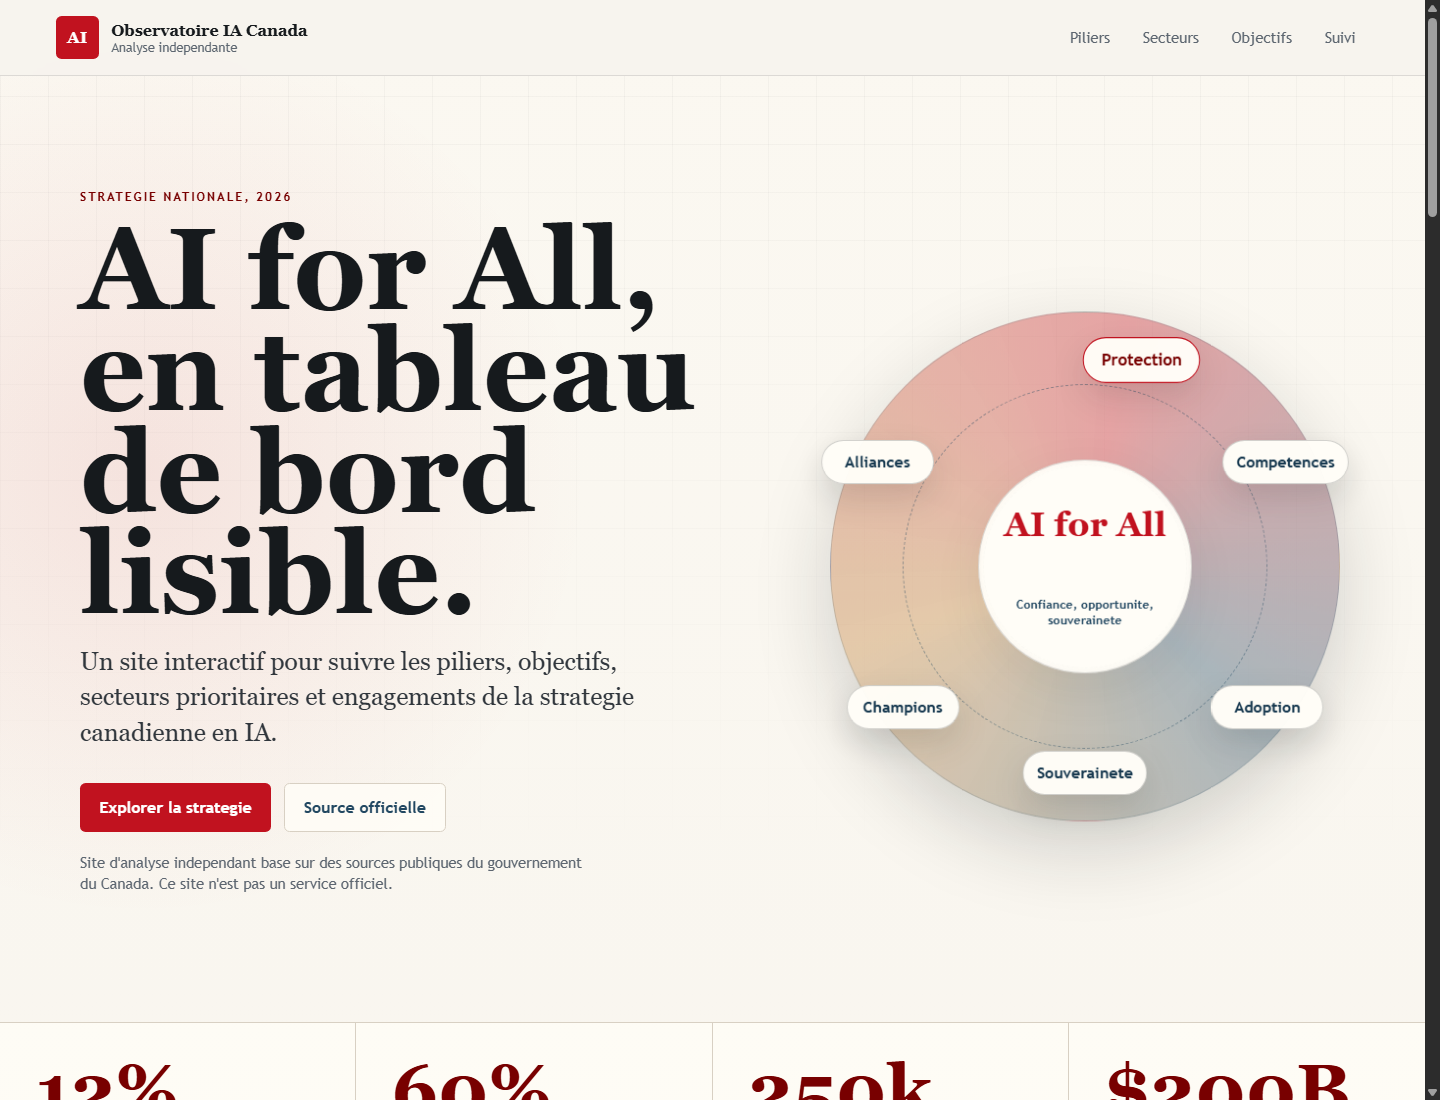
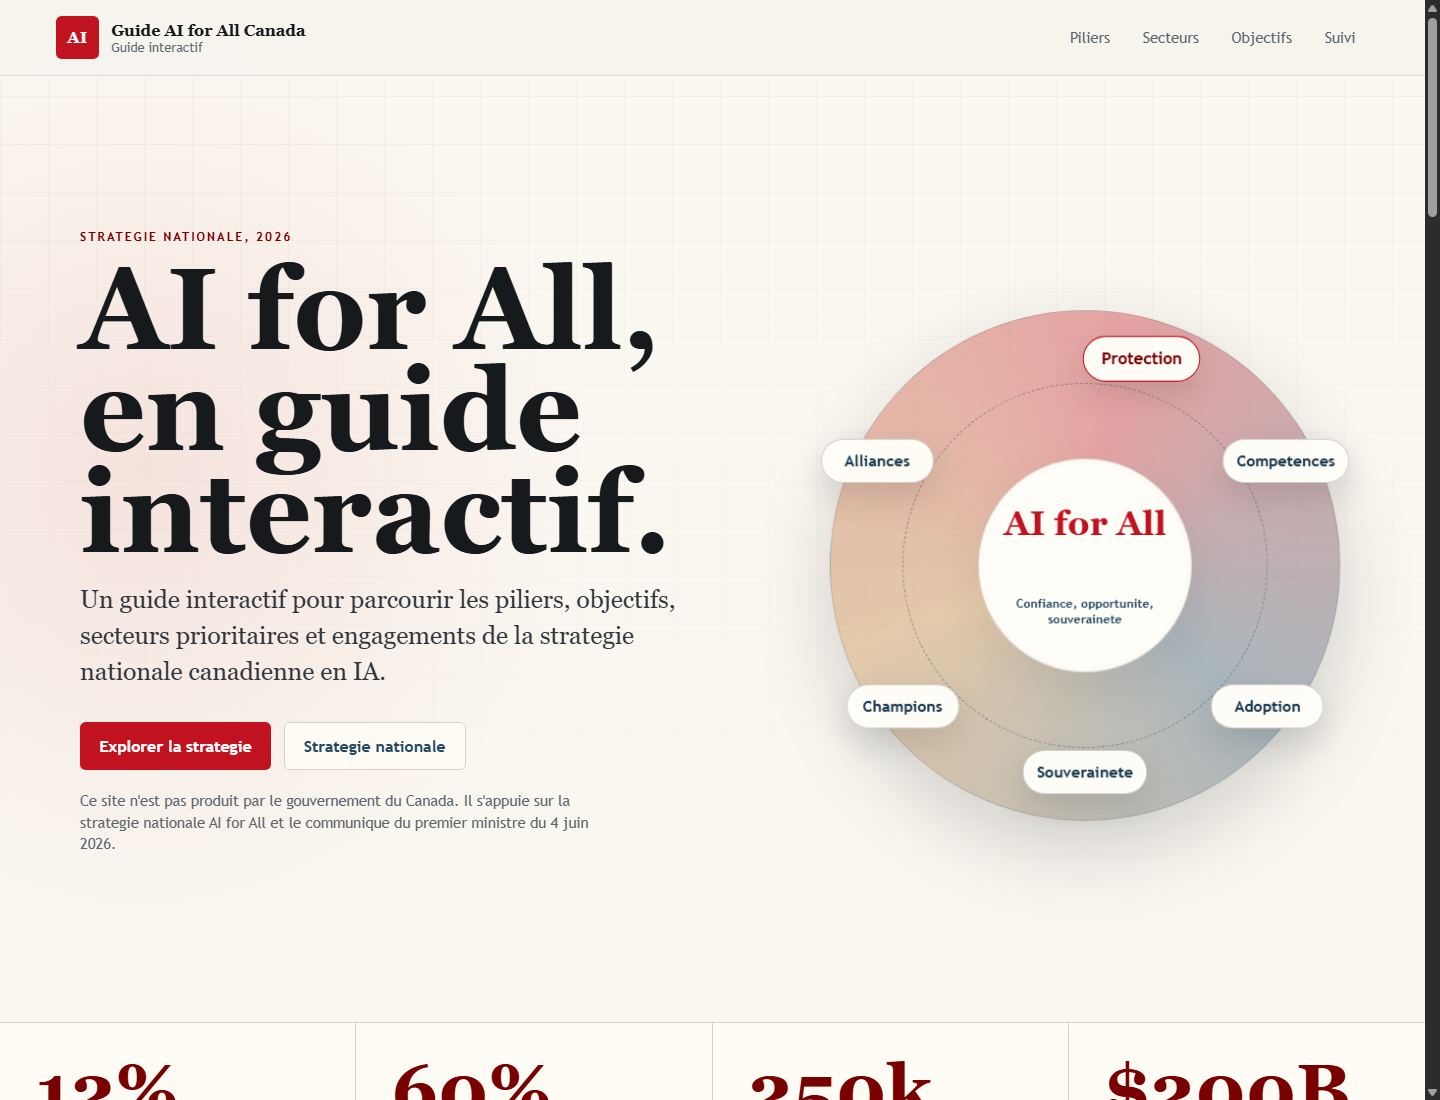
content: center site on national strategy

diff --git a/index.html b/index.html
@@ -5,9 +5,9 @@
     <meta name="viewport" content="width=device-width, initial-scale=1.0" />
     <meta
       name="description"
-      content="Observatoire interactif independant de la strategie nationale canadienne en intelligence artificielle, AI for All."
+      content="Guide interactif de la strategie nationale canadienne en intelligence artificielle, AI for All."
     />
-    <title>Observatoire IA Canada</title>
+    <title>Guide AI for All Canada</title>
     <link rel="stylesheet" href="styles.css" />
   </head>
   <body>
@@ -15,8 +15,8 @@
       <a class="brand" href="#top" aria-label="Retour au debut">
         <span class="brand-mark">AI</span>
         <span>
-          <strong>Observatoire IA Canada</strong>
-          <small>Analyse independante</small>
+          <strong>Guide AI for All Canada</strong>
+          <small>Guide interactif</small>
         </span>
       </a>
       <nav aria-label="Navigation principale">
@@ -31,25 +31,26 @@
       <section class="hero">
         <div class="hero-copy">
           <p class="eyebrow">Strategie nationale, 2026</p>
-          <h1>AI for All, en tableau de bord lisible.</h1>
+          <h1>AI for All, en guide interactif.</h1>
           <p class="hero-lead">
-            Un site interactif pour suivre les piliers, objectifs, secteurs
-            prioritaires et engagements de la strategie canadienne en IA.
+            Un guide interactif pour parcourir les piliers, objectifs, secteurs
+            prioritaires et engagements de la strategie nationale canadienne en IA.
           </p>
           <div class="hero-actions">
             <a class="button primary" href="#piliers">Explorer la strategie</a>
             <a
               class="button secondary"
-              href="https://ised-isde.canada.ca/site/ised/en/artificial-intelligence-ecosystem/overview-canadas-national-artificial-intelligence-strategy"
+              href="https://ised-isde.canada.ca/site/ised/en/canadas-national-artificial-intelligence-strategy-ai-all"
               target="_blank"
               rel="noreferrer"
             >
-              Source officielle
+              Strategie nationale
             </a>
           </div>
           <p class="disclaimer">
-            Site d'analyse independant base sur des sources publiques du
-            gouvernement du Canada. Ce site n'est pas un service officiel.
+            Ce site n'est pas produit par le gouvernement du Canada. Il s'appuie
+            sur la strategie nationale AI for All et le communique du premier
+            ministre du 4 juin 2026.
           </p>
         </div>
 
@@ -165,8 +166,7 @@
           </div>
           <p>
             Les cibles ci-dessous reprennent la strategie complete publiee par
-            ISDE. La page d'aperçu mentionne aussi une cible de 75% d'adoption
-            d'ici 2031, a clarifier dans le suivi.
+            ISDE dans la strategie nationale complete `AI for All`.
           </p>
         </div>
         <div class="goal-grid" id="goal-grid"></div>
@@ -213,15 +213,6 @@
         <ol>
           <li>
             <a
-              href="https://ised-isde.canada.ca/site/ised/en/artificial-intelligence-ecosystem/overview-canadas-national-artificial-intelligence-strategy"
-              target="_blank"
-              rel="noreferrer"
-            >
-              Aperçu officiel AI for All, ISDE, modifie le 4 juin 2026
-            </a>
-          </li>
-          <li>
-            <a
               href="https://ised-isde.canada.ca/site/ised/en/canadas-national-artificial-intelligence-strategy-ai-all"
               target="_blank"
               rel="noreferrer"
@@ -243,8 +234,8 @@
     </main>
 
     <footer class="site-footer">
-      <span>Observatoire IA Canada</span>
-      <span>Analyse independante, sources publiques.</span>
+      <span>Guide AI for All Canada</span>
+      <span>Site non produit par le gouvernement du Canada.</span>
     </footer>
 
     <script src="app.js" type="module"></script>

diff --git a/app.js b/app.js
@@ -179,8 +179,8 @@ const tracker = [
   {
     status: "A verifier",
     className: "watch",
-    title: "Cible 60% ou 75% d'adoption",
-    text: "La strategie complete mentionne 60% d'ici 2034, l'aperçu mentionne 75% d'ici 2031."
+    title: "Cible d'adoption de 60%",
+    text: "La strategie nationale vise une hausse de l'adoption de l'IA par les entreprises de 12% a 60% d'ici 2034."
   },
   {
     status: "Annonce",

diff --git a/docs/project-log.md b/docs/project-log.md
@@ -4,26 +4,24 @@
 
 ### Contexte
 
-Ulrich veut creer un site interactif a partir de la page officielle d'ISDE sur la strategie nationale canadienne en IA, `AI for All`.
+Ulrich veut creer un site interactif a partir de la strategie nationale canadienne en IA, `AI for All`.
 
 ### Actions
 
 - Creation du depot Git local dans `C:\Users\ciram\Downloads\AI-CA`.
 - Creation du depot GitHub public `ulrich-e-r-djidonou/AI-CA`.
 - Scaffold d'une app statique sans dependances externes.
-- Ajout d'un tableau de bord interactif : hero, six piliers, secteurs prioritaires, objectifs, simulateur d'adoption, suivi des engagements et sources.
+- Ajout d'un guide interactif : hero, six piliers, secteurs prioritaires, objectifs, simulateur d'adoption, suivi des engagements et sources.
 - Verification locale avec `npm run check`, chargement HTTP 200, test des interactions principales et capture visuelle `docs/validation/homepage.png`.
 
 ### Sources consultees
 
-- `https://ised-isde.canada.ca/site/ised/en/artificial-intelligence-ecosystem/overview-canadas-national-artificial-intelligence-strategy`
 - `https://ised-isde.canada.ca/site/ised/en/canadas-national-artificial-intelligence-strategy-ai-all`
 - `https://www.pm.gc.ca/en/news/news-releases/2026/06/04/prime-minister-carney-launches-ai-all-canadas-new-national-artificial`
 
 ### Limites connues
 
 - Les donnees sont codees dans `app.js` pour le prototype initial.
-- La page d'aperçu ISDE mentionne une cible de 75% d'adoption d'ici 2031, tandis que la strategie complete mentionne 60% d'ici 2034. Le site signale cette divergence comme point a verifier.
 - Premier rendu inspecte : contraste de la roue strategique ajuste apres capture visuelle.
 
 ## 2026-06-04, standardisation Codex
@@ -40,6 +38,19 @@ Ulrich veut standardiser les instructions projet pour Codex avec `AGENTS.md`.
 ### Note
 
 `CLAUDE.md` existe encore parce qu'il n'a pas ete supprime explicitement. Il pourra etre retire apres confirmation si le projet doit n'utiliser que `AGENTS.md`.
+
+## 2026-06-04, recentrage editorial
+
+### Contexte
+
+Ulrich veut retirer le positionnement editorial secondaire. Le projet doit rester centre sur la strategie nationale.
+
+### Actions
+
+- Remplacement du positionnement par `Guide AI for All Canada`.
+- Conservation d'une mention claire : le site n'est pas produit par le gouvernement du Canada.
+- Limitation des sources a la strategie nationale complete et au communique du premier ministre du 4 juin 2026.
+- Suppression de la reference a une page secondaire ISDE.
 
 ### Commandes utiles
 

diff --git a/docs/decisions.md b/docs/decisions.md
@@ -13,10 +13,18 @@ Alternatives considerees :
 
 Statut : adoptee pour la version initiale.
 
-## 2026-06-04, positionnement non officiel
+## 2026-06-04, positionnement non gouvernemental
 
-Decision : afficher une mention claire indiquant que le site est une analyse independante basee sur des sources publiques.
+Decision : afficher une mention claire indiquant que le site n'est pas produit par le gouvernement du Canada.
 
-Raison : eviter toute confusion avec un service officiel du gouvernement du Canada.
+Raison : eviter toute confusion avec un service officiel du gouvernement du Canada, sans ajouter un positionnement editorial secondaire.
+
+Statut : adoptee.
+
+## 2026-06-04, sources limitees
+
+Decision : limiter le contenu a la strategie nationale complete `AI for All` et au communique du premier ministre du 4 juin 2026.
+
+Raison : le projet doit porter sur la strategie nationale elle-meme, sans melanger d'autres pages de synthese ou d'autres cadres politiques.
 
 Statut : adoptee.

diff --git a/README.md b/README.md
@@ -1,8 +1,8 @@
-# Observatoire IA Canada
+# Guide AI for All Canada
 
-Site interactif independant pour analyser la strategie nationale canadienne en intelligence artificielle, `AI for All`, publiee le 4 juin 2026.
+Site interactif pour parcourir la strategie nationale canadienne en intelligence artificielle, `AI for All`, publiee le 4 juin 2026.
 
-Le projet transforme les sources officielles d'ISDE et du gouvernement du Canada en tableau de bord : piliers, secteurs prioritaires, objectifs chiffrés, suivi des engagements et points de vigilance.
+Le projet transforme la strategie nationale en guide interactif : piliers, secteurs prioritaires, objectifs chiffrés, suivi des engagements et points de vigilance. Ce site n'est pas produit par le gouvernement du Canada.
 
 ## Stack
 
@@ -26,13 +26,12 @@ npm run check
 
 ## Sources principales
 
-- [Aperçu officiel AI for All, ISDE](https://ised-isde.canada.ca/site/ised/en/artificial-intelligence-ecosystem/overview-canadas-national-artificial-intelligence-strategy)
 - [Strategie nationale complete, AI for All](https://ised-isde.canada.ca/site/ised/en/canadas-national-artificial-intelligence-strategy-ai-all)
 - [Communique du premier ministre, 4 juin 2026](https://www.pm.gc.ca/en/news/news-releases/2026/06/04/prime-minister-carney-launches-ai-all-canadas-new-national-artificial)
 
 ## Statut
 
-Version initiale : prototype fonctionnel d'observatoire interactif, avec une mention explicite que le site n'est pas un service officiel du gouvernement.
+Version initiale : prototype fonctionnel de guide interactif, avec une mention explicite que le site n'est pas produit par le gouvernement du Canada.
 
 ## Documentation
 

diff --git a/docs/validation/sources.md b/docs/validation/sources.md
@@ -2,18 +2,14 @@
 
 ## Sources verifiees le 2026-06-04
 
-1. ISDE, aperçu de la strategie nationale `AI for All`.
-   URL : `https://ised-isde.canada.ca/site/ised/en/artificial-intelligence-ecosystem/overview-canadas-national-artificial-intelligence-strategy`
-
-2. ISDE, strategie nationale complete `AI for All`.
+1. ISDE, strategie nationale complete `AI for All`.
    URL : `https://ised-isde.canada.ca/site/ised/en/canadas-national-artificial-intelligence-strategy-ai-all`
 
-3. Cabinet du premier ministre, communique du 4 juin 2026.
+2. Cabinet du premier ministre, communique du 4 juin 2026.
    URL : `https://www.pm.gc.ca/en/news/news-releases/2026/06/04/prime-minister-carney-launches-ai-all-canadas-new-national-artificial`
 
 ## Points a verifier dans une version suivante
 
-- Cible d'adoption : l'aperçu ISDE indique 75% d'ici 2031, la strategie complete indique 60% d'ici 2034.
 - Details operationnels du Fonds d'acces au calcul.
 - Calendrier legislatif pour la vie privee, la securite en ligne et la transparence IA.
 - Modalites de la mission IA en sante financee a 200 M$.

diff --git a/AGENTS.md b/AGENTS.md
@@ -4,15 +4,14 @@ Instructions specifiques au projet AI-CA pour Codex.
 
 ## Positionnement
 
-Ce projet est un site d'analyse independant sur la strategie canadienne `AI for All`. Il ne doit jamais etre presente comme un site officiel du gouvernement.
+Ce projet est un guide interactif de la strategie nationale canadienne `AI for All`. Il ne doit jamais etre presente comme un site officiel du gouvernement du Canada.
 
 ## Sources
 
-Toute information factuelle doit rester reliee a une source publique verifiable, de preference une page officielle du gouvernement du Canada ou d'ISDE.
+Toute information factuelle doit rester reliee a la strategie nationale `AI for All` ou au communique du premier ministre du 4 juin 2026.
 
 Sources principales :
 
-- `https://ised-isde.canada.ca/site/ised/en/artificial-intelligence-ecosystem/overview-canadas-national-artificial-intelligence-strategy`
 - `https://ised-isde.canada.ca/site/ised/en/canadas-national-artificial-intelligence-strategy-ai-all`
 - `https://www.pm.gc.ca/en/news/news-releases/2026/06/04/prime-minister-carney-launches-ai-all-canadas-new-national-artificial`
 

diff --git a/CLAUDE.md b/CLAUDE.md
@@ -4,11 +4,11 @@ Instructions specifiques au projet AI-CA.
 
 ## Positionnement
 
-Ce projet est un site d'analyse independant sur la strategie canadienne `AI for All`. Il ne doit jamais etre presente comme un site officiel du gouvernement.
+Ce projet est un guide interactif de la strategie nationale canadienne `AI for All`. Il ne doit jamais etre presente comme un site officiel du gouvernement du Canada.
 
 ## Sources
 
-Toute information factuelle doit rester reliee a une source publique verifiable, de preference une page officielle du gouvernement du Canada ou d'ISDE.
+Toute information factuelle doit rester reliee a la strategie nationale `AI for All` ou au communique du premier ministre du 4 juin 2026.
 
 ## Style
 